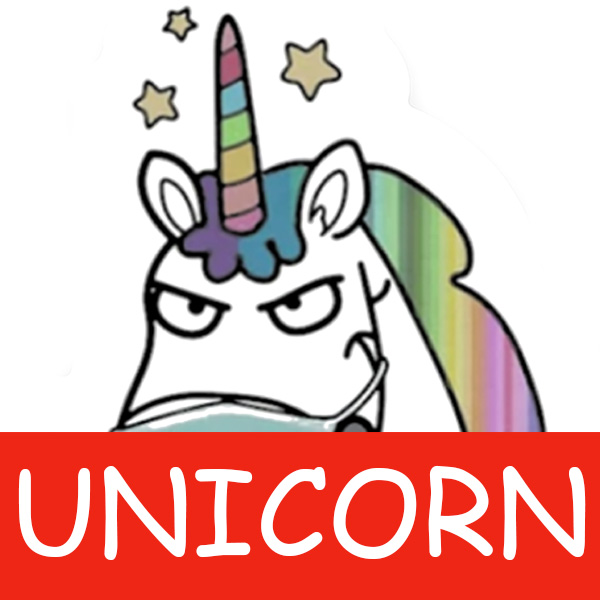
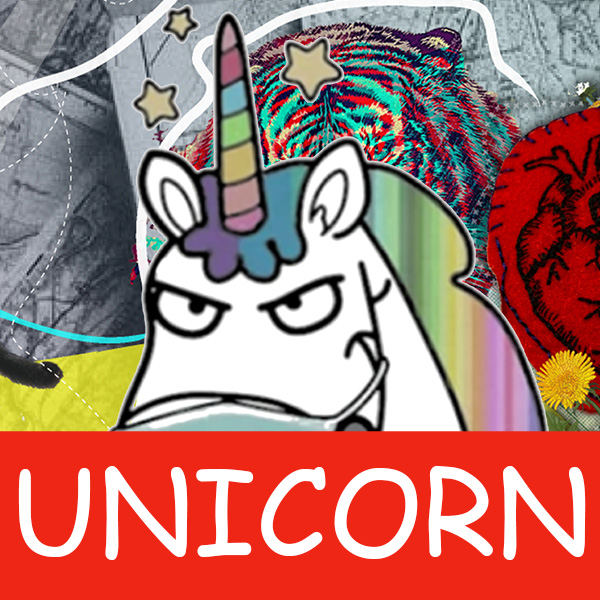
Fixed default og image

diff --git a/src/pages/v1/generate/og/default.png.ts b/src/pages/v1/generate/og/default.png.ts
@@ -25,7 +25,7 @@ export const GET: APIRoute = async () => {
         </div>
         <div style="display: flex; justify-content: space-between; align-items: baseline; padding-top: -2rem;">
           <p style="font-size: 32px">${link}</p>
-          <img src="https://www.elian.codes/assets/img/elian.jpg" width="200px" height="200px" style="border: 3px solid black; border-radius: 0.5rem;" />
+          <img src="https://boredunicorntv.github.io/images/unicorn-600.jpg" width="200px" height="200px" style="border: 3px solid black; border-radius: 0.5rem;" />
         </div>
       </div>
     </div>
